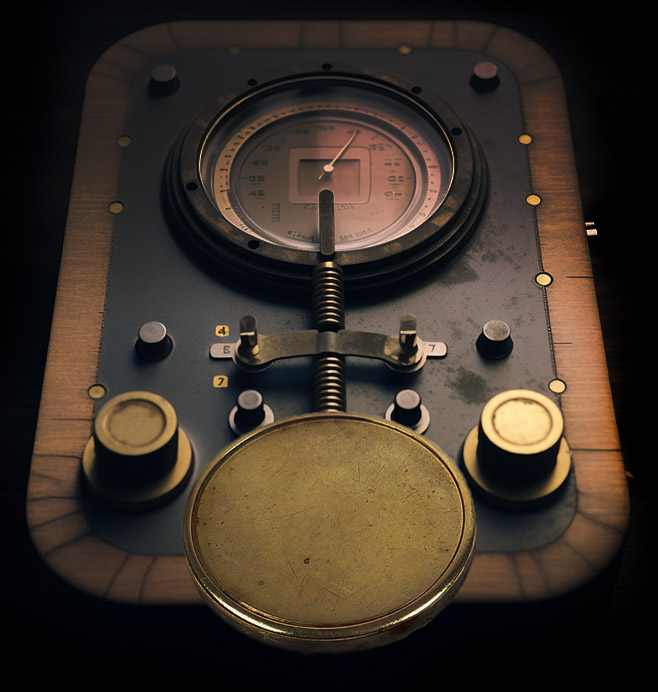
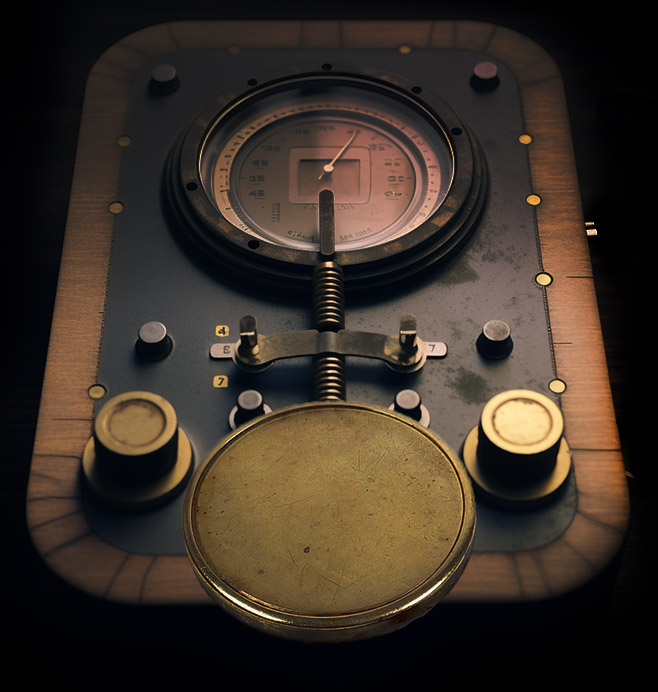
Updated devicedown image, less button travel

Changed region(s): [[0.2736, 0.5766, 0.7295, 0.9408], [0.4559, 0.789, 0.4863, 0.8194]]

diff --git a/decoder.html b/decoder.html
@@ -47,7 +47,7 @@
         <div class="controls-container">
             <button class="metallic" id="deleteLastSignal">Delete last signal</button>
         </div>
-        <p>V194</p>
+        <p>V195</p>
     
        <!-- Using the next script I add a timestamp, this way it will reload the JS when I reload the page, otherwise it was keeping the old JS after an update -->
         <script>      
